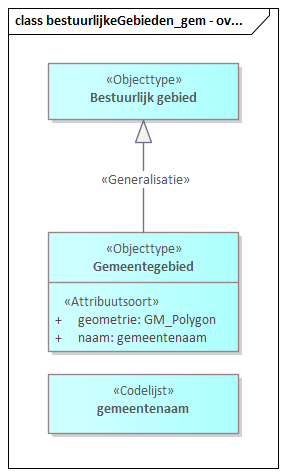
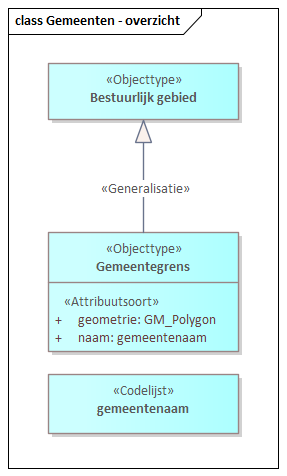
add new cat

diff --git a/data/IMSOR-CM-cat.respec.html b/data/IMSOR-CM-cat.respec.html
@@ -1,7 +1,7 @@
 
 <!DOCTYPE HTML><section id="cat" class="normative">
    <h2>Gegevensdefinitie</h2>
-   <!--MIMCM-IMSOR-CM-1.0.0-0-20210512-20220323-170359 imvertor 1.65.4--><a class="anchor" id="global_package_NEN3610"></a><section id="global_package_NEN3610">
+   <!--MIMCM-IMSOR-CM-1.0.0-0-20210512-20220323-172644 imvertor 1.65.4--><a class="anchor" id="global_package_NEN3610"></a><section id="global_package_NEN3610">
       <h3>Domein   NEN3610</h3>
       <section id="">
          <h4>Objecttypen   </h4>
@@ -1322,12 +1322,12 @@
             </section>
          
          </section>
-   </section><a class="anchor" id="global_package_BestuurlijkGebied"></a><section id="global_package_BestuurlijkGebied">
-      <h3>Domein   Bestuurlijk gebied</h3>
+   </section><a class="anchor" id="global_package_BestuurlijkeGebieden"></a><section id="global_package_BestuurlijkeGebieden">
+      <h3>Domein   Bestuurlijke Gebieden</h3>
       <section id="">
          <h4>Objecttypen   </h4>
-         <a class="anchor" id="graph_EAID_80F9B049_91FE_4978_B5B1_FDCE5AD8F0A9"></a><a class="anchor" id="global_class_BestuurlijkGebied_Gemeentegebied"></a><section id="global_class_BestuurlijkGebied_Gemeentegebied">
-            <h5>   Gemeentegebied</h5>
+         <a class="anchor" id="graph_EAID_80F9B049_91FE_4978_B5B1_FDCE5AD8F0A9"></a><a class="anchor" id="global_class_BestuurlijkeGebieden_Gemeentegrens"></a><section id="global_class_BestuurlijkeGebieden_Gemeentegrens">
+            <h5>   Gemeentegrens</h5>
             
             <table style="width: 100%;">
                <colgroup style="width: 30%;"></colgroup>
@@ -1335,7 +1335,7 @@
                <tbody>
                   <tr>
                      <th>Naam</th>
-                     <td>Gemeentegebied</td>
+                     <td>Gemeentegrens</td>
                   </tr>
                   <tr>
                      <th>Definitie</th>
@@ -1346,10 +1346,7 @@
                   </tr>
                   <tr>
                      <th>Toelichting</th>
-                     <td>
-                        
-                        <p>...</p>
-                        </td>
+                     <td>Een inhoudelijke toelichting op de toepassing van het informatie-element.</td>
                   </tr>
                </tbody>
             </table>
@@ -1370,12 +1367,11 @@
                   </tr>
                   <tr>
                      <td>
-                        <a class="link" href="#detail_attribute_BestuurlijkGebied_Gemeentegebied_geometrie">geometrie</a>
+                        <a class="link" href="#detail_attribute_BestuurlijkeGebieden_Gemeentegrens_geometrie">geometrie</a>
                         </td>
                      <td>
                         
-                        <p>De kadastrale grens van een gemeente vastgelegd als set van met lijnen aan elkaar
-                           verbonden punten.</p>
+                        <p>...</p>
                         </td>
                      <td>
                         <a class="external-link" href="https://isotc211.geolexica.org/concepts/695/">GM_Polygon</a>
@@ -1384,14 +1380,14 @@
                   </tr>
                   <tr>
                      <td>
-                        <a class="link" href="#detail_attribute_BestuurlijkGebied_Gemeentegebied_naam">naam</a>
+                        <a class="link" href="#detail_attribute_BestuurlijkeGebieden_Gemeentegrens_naam">naam</a>
                         </td>
                      <td>
                         
                         <p>Naam van Nederlandse gemeente (op het vaste land o.i.d.?)</p>
                         </td>
                      <td>
-                        <a class="link" href="#global_class_BestuurlijkGebied_Gemeentenaam">gemeentenaam</a>
+                        <a class="link" href="#global_class_BestuurlijkeGebieden_Gemeentenaam">gemeentenaam</a>
                         </td>
                      <td>1</td>
                   </tr>
@@ -1412,10 +1408,10 @@
                   </tr>
                   <tr>
                      <td>
-                        Gemeentegebied
+                        Gemeentegrens
                         is specialisatie van
                         
-                        <a class="link" href="#global_class_BestuurlijkGebied_BestuurlijkGebied">Bestuurlijk gebied</a>
+                        <a class="link" href="#global_class_BestuurlijkeGebieden_BestuurlijkGebied">Bestuurlijk gebied</a>
                         
                         </td>
                      <td></td>
@@ -1424,7 +1420,7 @@
             </table>
             
             </section>
-         <a class="anchor" id="graph_EAID_CE4A19B0_E8ED_4517_A5F2_DACF596D2421"></a><a class="anchor" id="global_class_BestuurlijkGebied_BestuurlijkGebied"></a><section id="global_class_BestuurlijkGebied_BestuurlijkGebied">
+         <a class="anchor" id="graph_EAID_CE4A19B0_E8ED_4517_A5F2_DACF596D2421"></a><a class="anchor" id="global_class_BestuurlijkeGebieden_BestuurlijkGebied"></a><section id="global_class_BestuurlijkeGebieden_BestuurlijkGebied">
             <h5>   Bestuurlijk gebied</h5>
             
             <table style="width: 100%;">
@@ -1451,7 +1447,7 @@
             <colgroup style="width: 70%;"></colgroup>
             <tbody>
                <tr>
-                  <th><a class="anchor" id="graph_EAID_79D7B406_B0A2_40be_BD43_87B07D5EEB39"></a><a class="anchor" id="global_class_BestuurlijkGebied_Gemeentenaam"></a><a class="link" href="#detail_class_BestuurlijkGebied_Gemeentenaam">gemeentenaam</a></th>
+                  <th><a class="anchor" id="graph_EAID_79D7B406_B0A2_40be_BD43_87B07D5EEB39"></a><a class="anchor" id="global_class_BestuurlijkeGebieden_Gemeentenaam"></a><a class="link" href="#detail_class_BestuurlijkeGebieden_Gemeentenaam">gemeentenaam</a></th>
                   <td>
                      
                      <p>
@@ -1476,10 +1472,10 @@
          
          <section id="">
             <h5>Objecttype details  </h5>
-            <a class="anchor" id="detail_class_BestuurlijkGebied_Gemeentegebied"></a><section id="detail_class_BestuurlijkGebied_Gemeentegebied">
-               <h6>   Gemeentegebied</h6>
-               <a class="anchor" id="detail_attribute_BestuurlijkGebied_Gemeentegebied_geometrie"></a><div class="deepheader" id="detail_attribute_BestuurlijkGebied_Gemeentegebied_geometrie">
-                  <h7>Attribuutsoort details  <a href="#global_class_BestuurlijkGebied_Gemeentegebied">Gemeentegebied</a> geometrie</h7>
+            <a class="anchor" id="detail_class_BestuurlijkeGebieden_Gemeentegrens"></a><section id="detail_class_BestuurlijkeGebieden_Gemeentegrens">
+               <h6>   Gemeentegrens</h6>
+               <a class="anchor" id="detail_attribute_BestuurlijkeGebieden_Gemeentegrens_geometrie"></a><div class="deepheader" id="detail_attribute_BestuurlijkeGebieden_Gemeentegrens_geometrie">
+                  <h7>Attribuutsoort details  <a href="#global_class_BestuurlijkeGebieden_Gemeentegrens">Gemeentegrens</a> geometrie</h7>
                   
                   <table style="width: 100%;">
                      <colgroup style="width: 30%;"></colgroup>
@@ -1493,8 +1489,7 @@
                            <th>Definitie</th>
                            <td>
                               
-                              <p>De kadastrale grens van een gemeente vastgelegd als set van met lijnen aan elkaar
-                                 verbonden punten.</p>
+                              <p>...</p>
                               </td>
                         </tr>
                         <tr>
@@ -1523,8 +1518,8 @@
                      </tbody>
                   </table>
                   </div>
-               <a class="anchor" id="detail_attribute_BestuurlijkGebied_Gemeentegebied_naam"></a><div class="deepheader" id="detail_attribute_BestuurlijkGebied_Gemeentegebied_naam">
-                  <h7>Attribuutsoort details  <a href="#global_class_BestuurlijkGebied_Gemeentegebied">Gemeentegebied</a> naam</h7>
+               <a class="anchor" id="detail_attribute_BestuurlijkeGebieden_Gemeentegrens_naam"></a><div class="deepheader" id="detail_attribute_BestuurlijkeGebieden_Gemeentegrens_naam">
+                  <h7>Attribuutsoort details  <a href="#global_class_BestuurlijkeGebieden_Gemeentegrens">Gemeentegrens</a> naam</h7>
                   
                   <table style="width: 100%;">
                      <colgroup style="width: 30%;"></colgroup>
@@ -1561,7 +1556,7 @@
                         <tr>
                            <th>Type</th>
                            <td>
-                              <a class="link" href="#detail_class_BestuurlijkGebied_Gemeentenaam">gemeentenaam</a>
+                              <a class="link" href="#detail_class_BestuurlijkeGebieden_Gemeentenaam">gemeentenaam</a>
                               </td>
                         </tr>
                      </tbody>
@@ -1580,12 +1575,12 @@
 </section>
 <section id="lis" class="normative">
    <h2>Inhoud van waardenlijsten</h2>
-   <!--MIMCM-IMSOR-CM-1.0.0-0-20210512-20220323-170359 imvertor 1.65.4-->
+   <!--MIMCM-IMSOR-CM-1.0.0-0-20210512-20220323-172644 imvertor 1.65.4-->
    <section id="">
       <h3>Referentielijst inhoud   </h3>
    </section>
    <section id="">
-      <h3>Codelijst inhoud   </h3><a class="anchor" id="graph_EAID_79D7B406_B0A2_40be_BD43_87B07D5EEB39"></a><a class="anchor" id="detail_class_BestuurlijkGebied_Gemeentenaam"></a><section id="detail_class_BestuurlijkGebied_Gemeentenaam">
+      <h3>Codelijst inhoud   </h3><a class="anchor" id="graph_EAID_79D7B406_B0A2_40be_BD43_87B07D5EEB39"></a><a class="anchor" id="detail_class_BestuurlijkeGebieden_Gemeentenaam"></a><section id="detail_class_BestuurlijkeGebieden_Gemeentenaam">
          <h4>Codelijst details  gemeentenaam</h4>
          
          <table style="width: 100%;" class="list">
